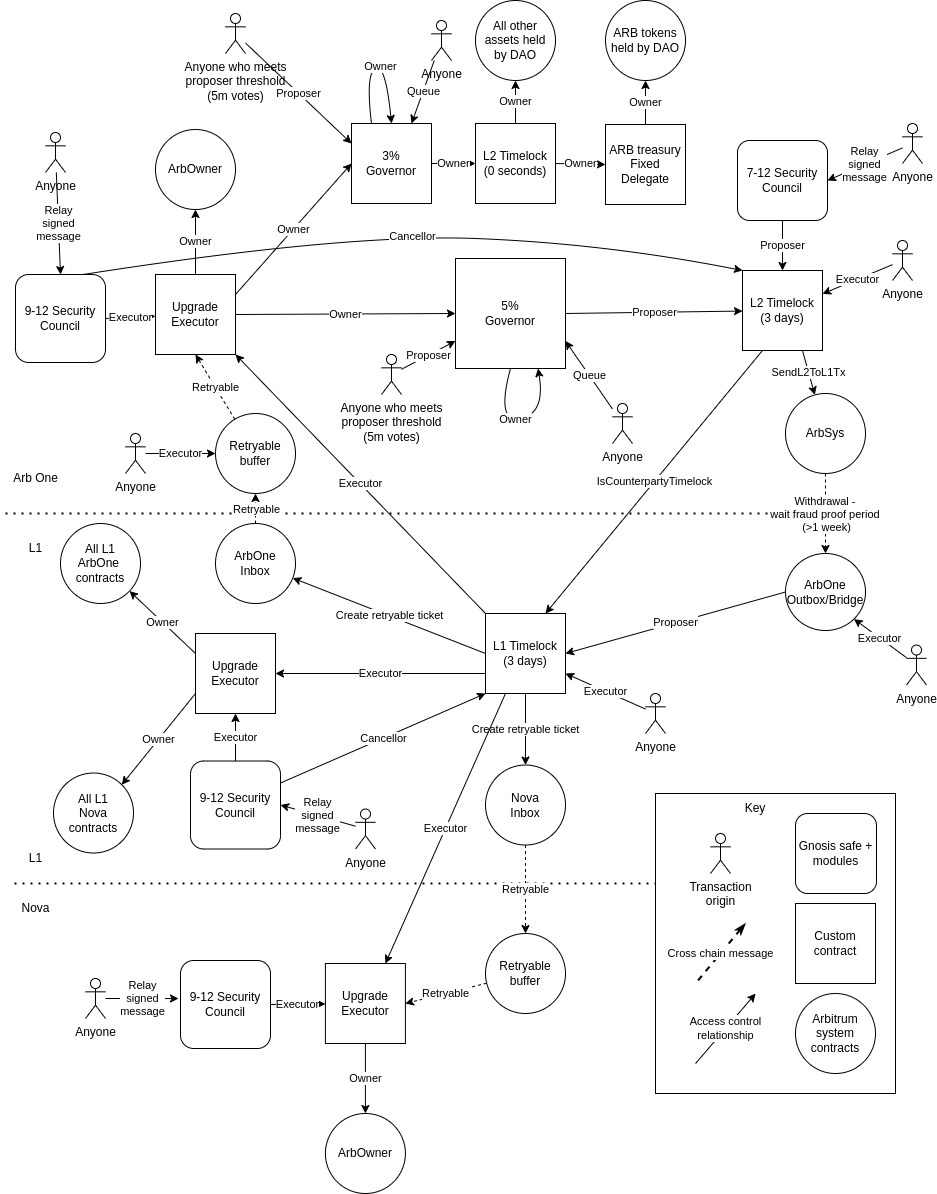
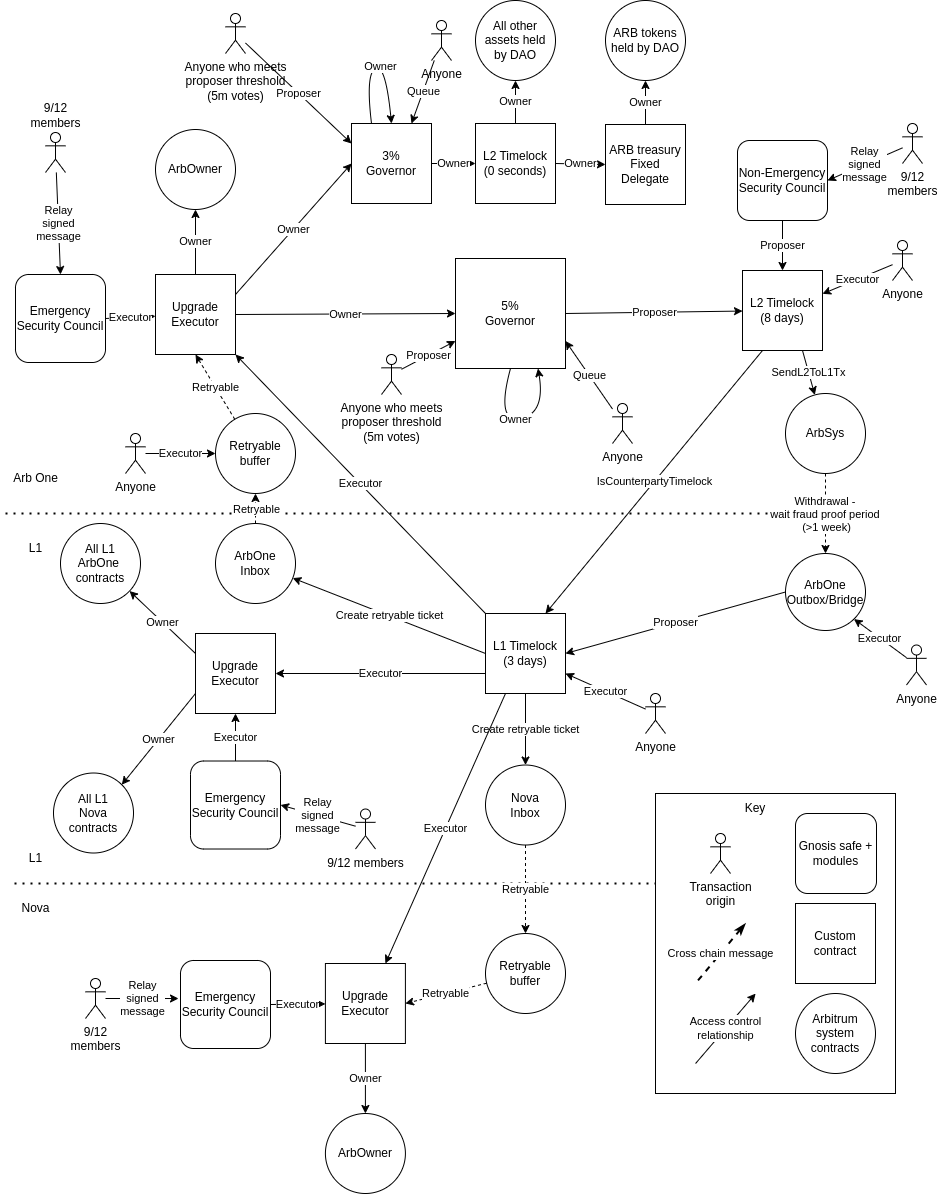
Merge pull request #306 from ArbitrumFoundation/update-timelock-delay
Updates timelock delay

Pull request: Updates timelock delay
Seatbelt: https://github.com/ArbitrumFoundation/governance-seatbelt/pull/34

diff --git a/docs/overview.md b/docs/overview.md
@@ -50,7 +50,7 @@ Once the proposal has gone through each of these delays, it is then directed to 
 ```mermaid
 graph TD;
   D["<a href='#phase-3-on-chain-dao-vote' style='text-decoration:none;'><b>On-chain DAO vote</b></a><br/><span style='font-size:smaller'>(14 days, extendable by 2 days)</span>"];
-  D -->|"<span style='padding: 3px;'>Passes, Constitutional AIP</span>"| E["<a href='#phase-4-l2-waiting-period' style='text-decoration:none;'><b>L2 waiting period</b></a><br/><span style='font-size:smaller'>(3 days)</span>"];
+  D -->|"<span style='padding: 3px;'>Passes, Constitutional AIP</span>"| E["<a href='#phase-4-l2-waiting-period' style='text-decoration:none;'><b>L2 waiting period</b></a><br/><span style='font-size:smaller'>(8 days)</span>"];
   E --> F["<a href='#phase-5-l2-to-l1-message' style='text-decoration:none;'><b>L2-to-L1 message</b></a><br/><span style='font-size:smaller'>(~ 1 week)</span>"];
   F --> G["<a href='#phase-6-l1-waiting-period' style='text-decoration:none;'><b>L1 waiting period</b></a><br/><span style='font-size:smaller'>(3 days)</span>"];
   G --> H["<a href='#phase-7-implementation' style='text-decoration:none;'><b>Execution target</b></a>"];

diff --git a/docs/security-council-election-flow.md b/docs/security-council-election-flow.md
@@ -6,6 +6,6 @@ graph TD
     A["Nominee selection (7 days)"] --> B["Compliance check by foundation (14 days)"]
     B --> C["Member election (21 days)"]
     C --> D["Security council manager (0 days)"]
-    D --> E["L2 Timelock (3 days)\nWithdrawal period (~1 week)\nL1 Timelock (3 days)"]
+    D --> E["L2 Timelock (8 days)\nWithdrawal period (~1 week)\nL1 Timelock (3 days)"]
     E --> F["Individual council updates (0 days)"]
 ```